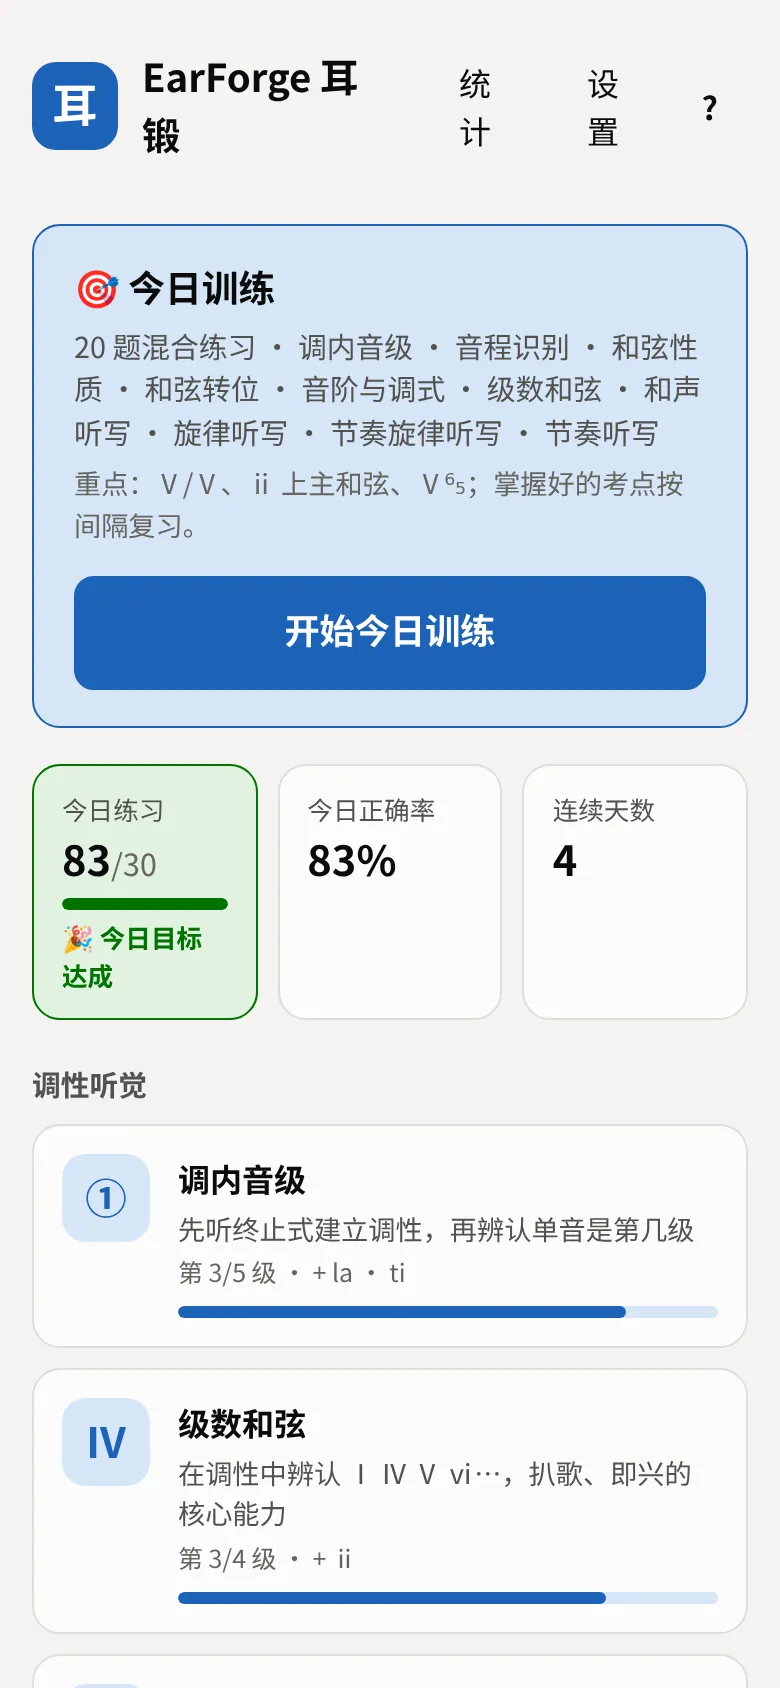
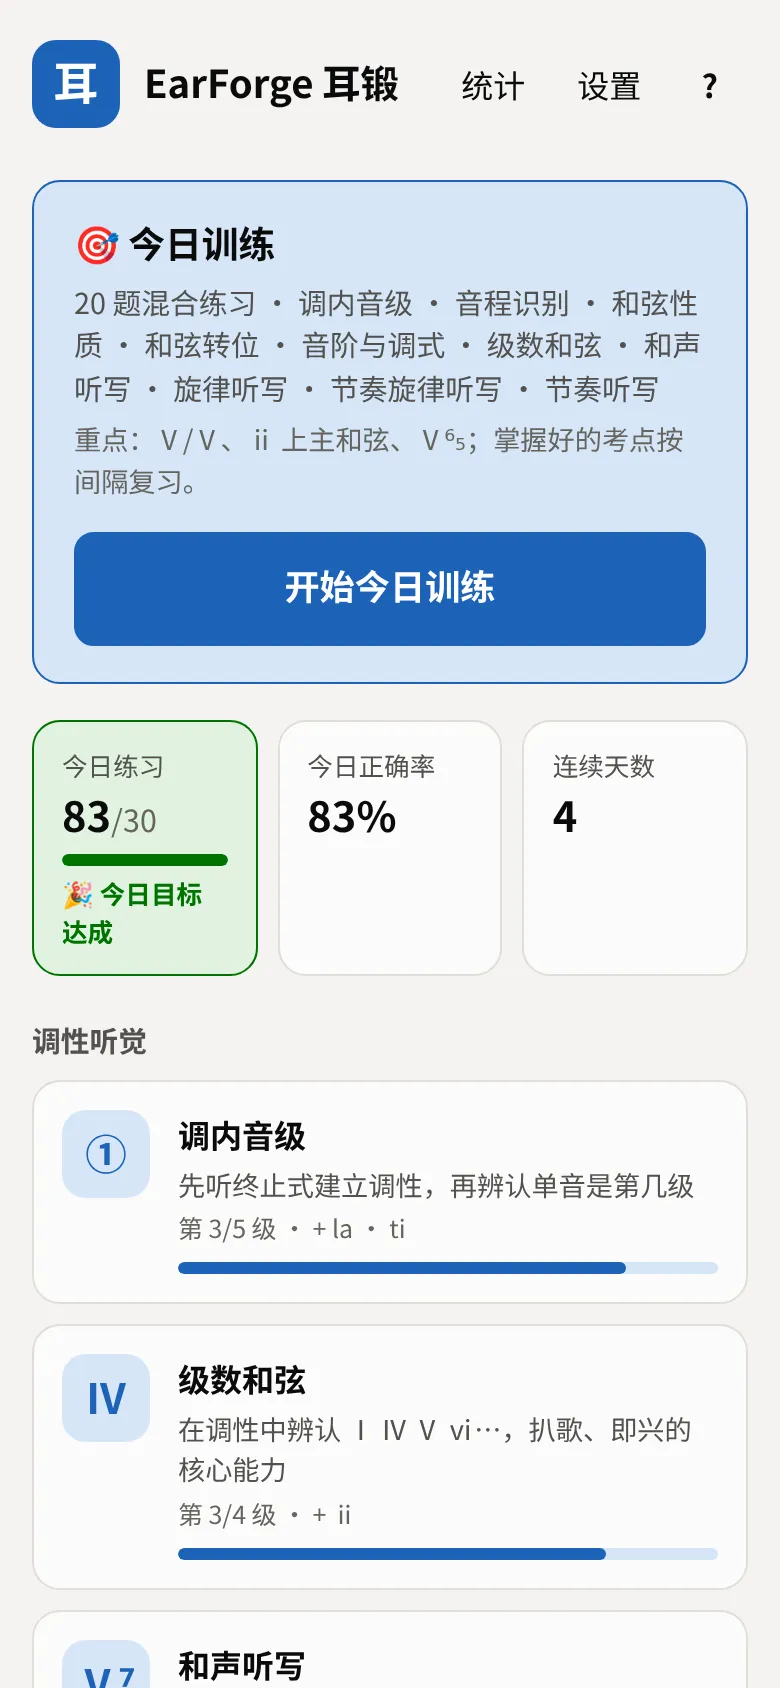
fix(ui): 窄屏中文顶栏按钮不逐字折行，品牌名只在空格处折行；更新手机截图

Changed region(s): [[0.0308, 0.0, 0.9846, 1.0], [0.3077, 0.5545, 0.3385, 0.6161], [0.8923, 0.0308, 0.9231, 0.0616]]

diff --git a/src/index.css b/src/index.css
@@ -243,6 +243,18 @@ kbd {
 .topnav {
   display: flex;
   gap: 4px;
+  flex-shrink: 0;
+}
+/* 窄屏中文顶栏：「统计」「设置」不逐字折行；品牌名只在空格处折行 */
+.topnav button {
+  white-space: nowrap;
+}
+.topbar h1 {
+  word-break: keep-all;
+  line-height: 1.2;
+}
+.brand {
+  min-width: 0;
 }
 .topbar > button {
   /* 「← Back」等较长的英文不折行 */
@@ -947,6 +959,9 @@ input[type='range'] {
   }
   .brand p {
     display: none;
+  }
+  .topnav button {
+    padding-inline: 10px;
   }
   .today .big {
     width: 100%;

diff --git a/CHANGELOG.md b/CHANGELOG.md
@@ -25,6 +25,7 @@
 - 音色合成从 `engine.ts` 拆到 `src/audio/timbres.ts`（描述数据 + 构建函数），引擎只负责调度；钢琴、电钢琴、纯音的声音不变。
 
 ### Fixed
+- 窄屏（≤ 390px）中文首页顶栏的「统计」「设置」不再逐字竖排，品牌名只在空格处折行。
 - 和声听写：升号多的小调（C♯、G♯、D♯ 小调）里，Ⅴ/Ⅴ、Ⅴ⁷/Ⅴ 的升四级音在谱上被写成别的字母（如 G♯ 小调的 C𝄪 写成 D）；现在谱上的和弦音一律按三度叠置拼写。
 - 和声听写：小调的 ⅳ⁶ → Ⅴ⁶₅ 低音只能走增二度或减七度（le → ti），减七度跳进没被拦下；现在小调不出这个连接，任何声部也不再出现 le ↔ ti 的跳进。
 - 随机乐器：模拟考试交卷后，回顾里的「听题」与对比试听用的是最后一题抽到的乐器；现在记下每题考试时的乐器，考试中重听与交卷后回顾都用它。
